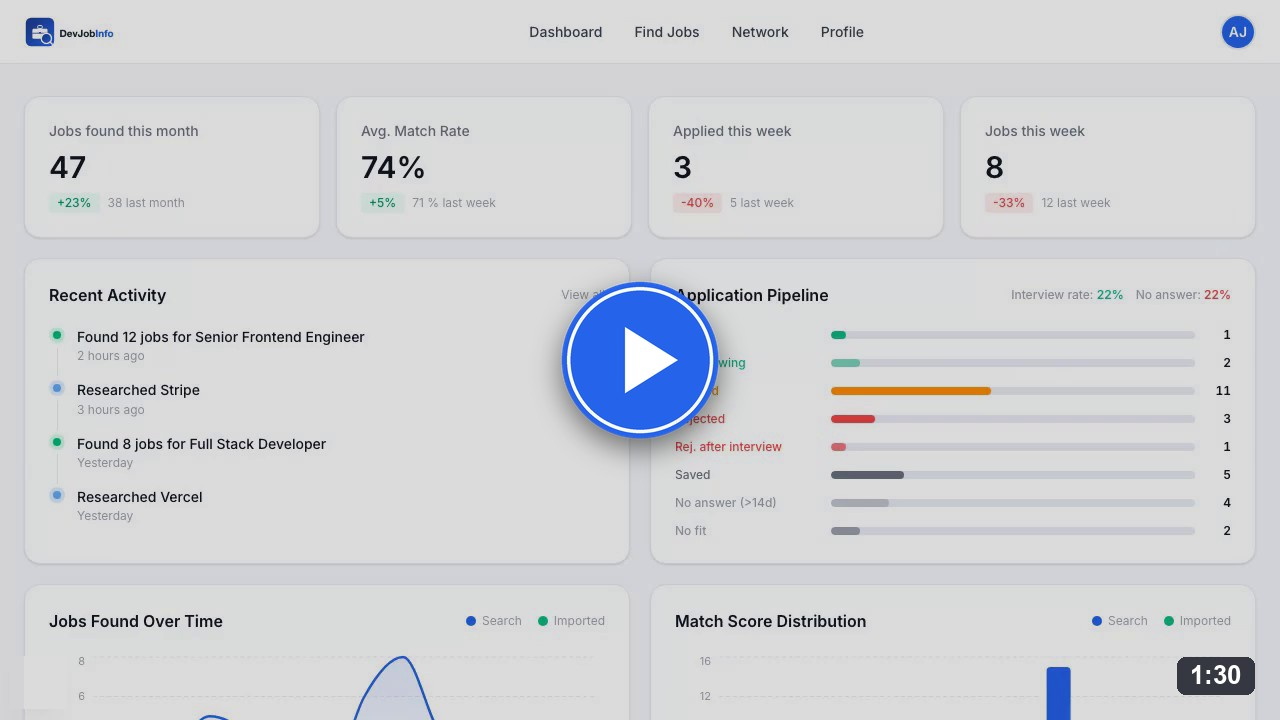
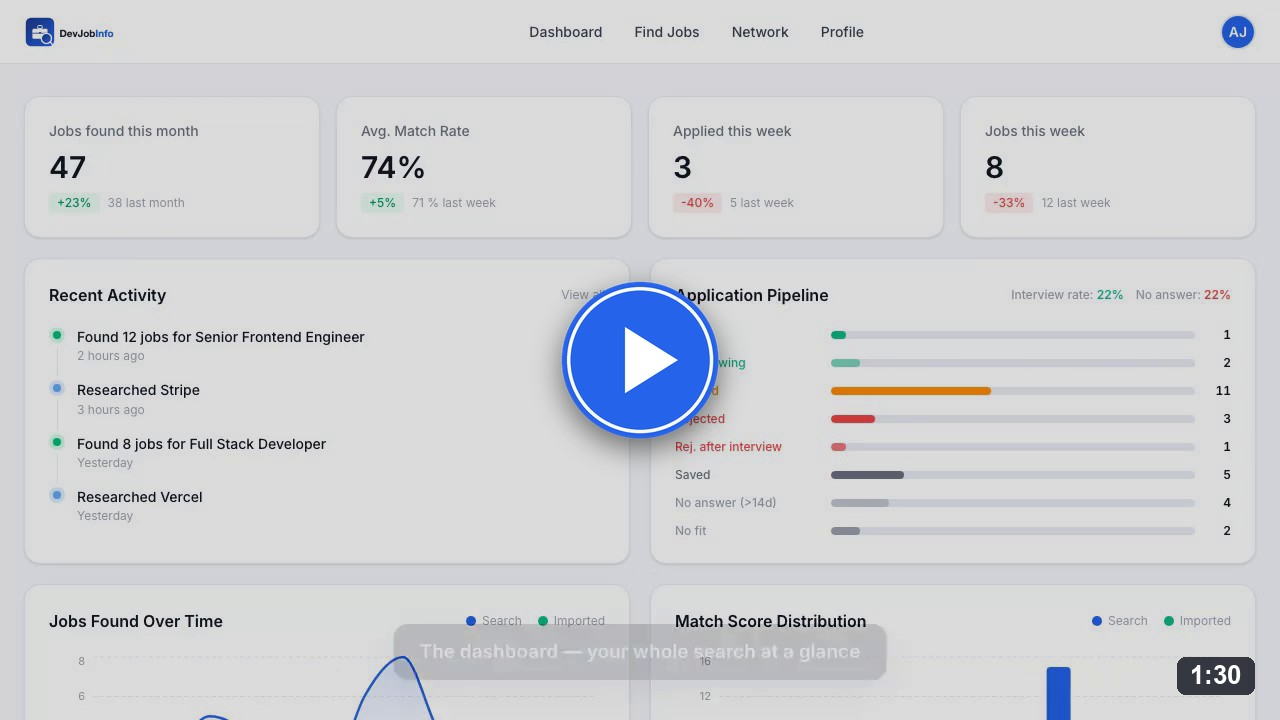
fix: remove the Next dev indicator from the walkthrough recording
The indicator sat bottom-left of every recorded frame. CSS could not hide it
reliably — Next renders it in a shadow host whose tag has changed between
versions — so it is switched off at source instead.

devIndicators: false is applied only when RECORDING=1, which the Playwright
webServer sets, so the indicator stays available for normal development.
reuseExistingServer is now false: a server already running without that variable
would have kept the badge.

Re-recorded, re-cut and re-narrated. Verified absent at four points across the
runtime and in the thumbnail, checking the filled centre of the old badge
position rather than the whole corner, which legitimate dark text also occupies.

Also refreshes docs/walkthrough.mp4 — the narration script writes the voiced
file but never updated the silent master, so the thumbnail was still being cut
from the previous take.

Changed region(s): [[0.2812, 0.8556, 0.7188, 0.9472]]

diff --git a/playwright.config.ts b/playwright.config.ts
@@ -30,9 +30,13 @@ export default defineConfig({
     },
   ],
   webServer: {
-    command: "npm run dev",
+    // RECORDING=1 switches off the Next dev indicator (see next.config.ts),
+    // which otherwise sits bottom-left of every recorded frame.
+    command: "RECORDING=1 npm run dev",
     url: "http://localhost:3000",
-    reuseExistingServer: true,
+    // Must not reuse: an already-running server was started without RECORDING=1
+    // and would still show the badge. predev frees the port first.
+    reuseExistingServer: false,
     timeout: 120_000,
   },
 });

diff --git a/next.config.ts b/next.config.ts
@@ -2,6 +2,12 @@ import type { NextConfig } from "next";
 import { withSentryConfig } from "@sentry/nextjs";
 
 const nextConfig: NextConfig = {
+  // The dev indicator sits bottom-left of every page and ends up burned into
+  // the walkthrough recording. CSS could not reliably hide it — Next renders it
+  // in a shadow host whose tag has changed between versions — so it is switched
+  // off at source, but only while recording, since it is useful the rest of the
+  // time. e2e/videos sets RECORDING=1.
+  ...(process.env.RECORDING === "1" ? { devIndicators: false as const } : {}),
   images: {
     remotePatterns: [
       {